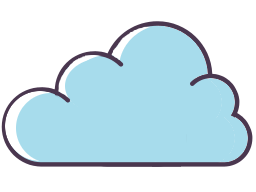
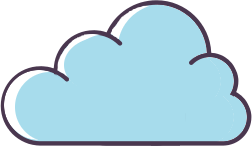
Shrink all images Requires new "top-center" placement for text

Changed region(s): [[0.0, 0.0, 1.0, 1.0]]

diff --git a/README.md b/README.md
@@ -43,7 +43,7 @@ Elements can include an image (or spritesheet/animation), and an audio to play o
 
 In this example, the first element is a monkey sprite positioned at `(32, 32)` which plays `assets/audio/sfx/monkey-noises` when clicked. The second example is a spritesheet of `monkey_helmet` at `(64, 96)`. The animation frames are `50x55` pixels each. The first frame shows until the player clicks on it, at which point all eight frames play at 8fps. You can also specify a `z` value (higher values are drawn on top of lower values).
 
-Elements appear relative to the top-left corner of the screen by default. To position them relative to a different corner, specify `placement` with one of `["top-left", "top-right", "bottom-left", "bottom-right"]` instead.
+Elements appear relative to the top-left corner of the screen by default. To position them relative to a different corner, specify `placement` with one of `["top-left", "top-center", "top-right", "bottom-left", "bottom-right"]` instead.
 
 Elements can also specify an `onClick` handler, with the format `show(screen name)`. When clicked, the element transitions the player to the specified screen. (If the element has an animation, the animation doesn't play.)
 
